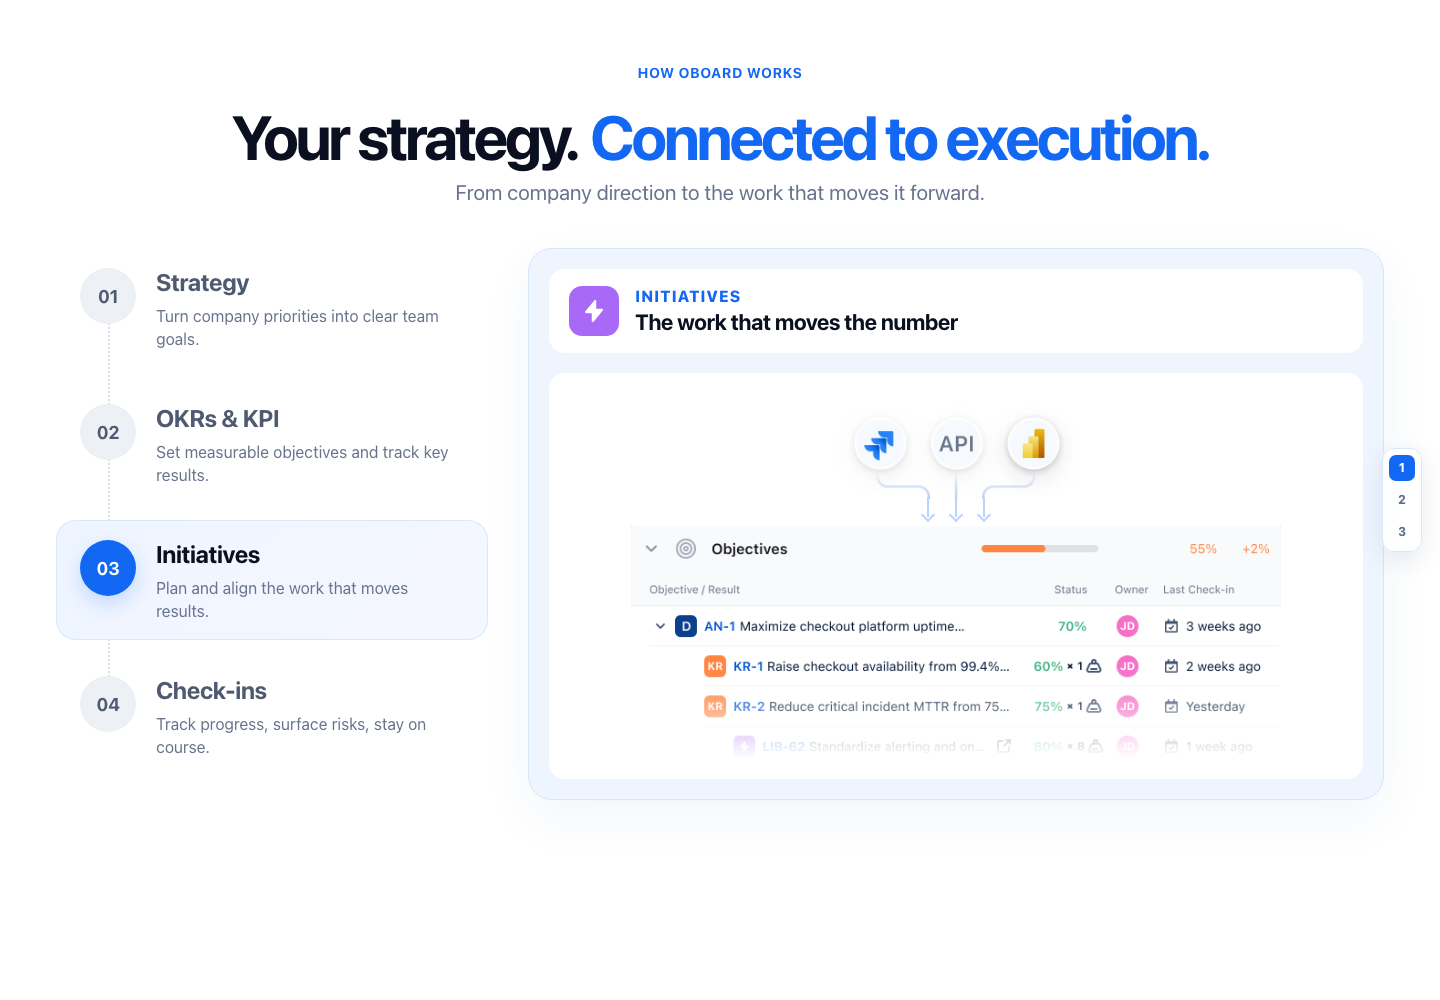
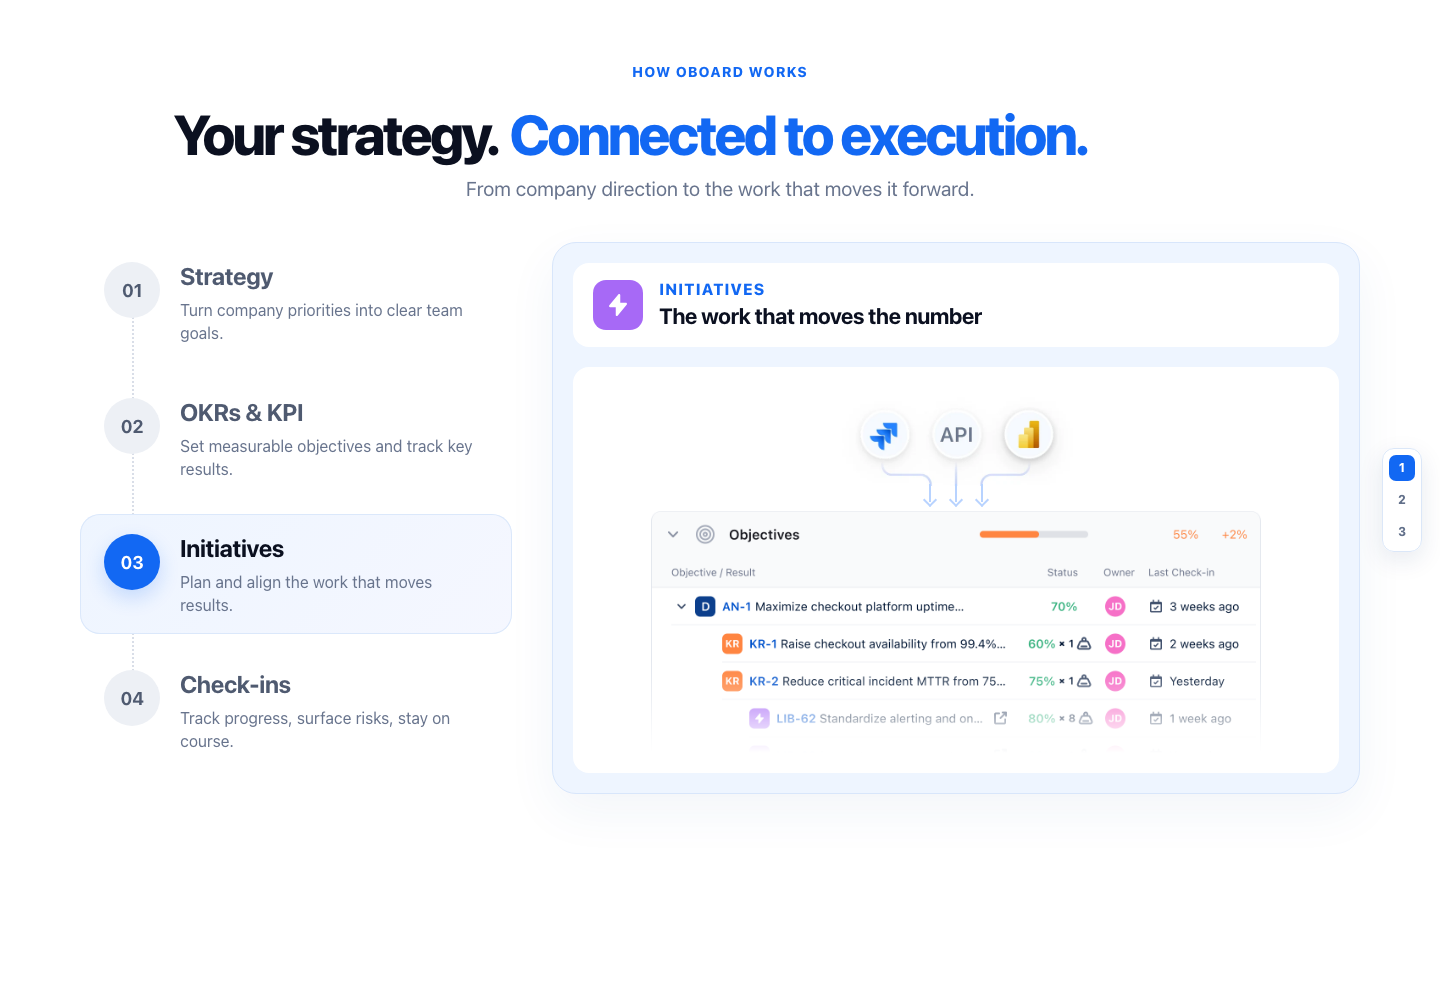
Refresh Platform initiative visuals

diff --git a/viktor-homepage-v2/platform-4-states.html b/viktor-homepage-v2/platform-4-states.html
@@ -6,8 +6,8 @@
 <style>
 :root{--ink:#0b1020;--muted:#68748d;--blue:#1268f3;--violet:#8659ef;--line:#dfe7f2;--panel:#f2f6ff;--good:#0aa66f;--risk:#ef741f}
 *{box-sizing:border-box}body{margin:0;background:#fff;color:var(--ink);font-family:Inter,-apple-system,BlinkMacSystemFont,"Segoe UI",sans-serif;-webkit-font-smoothing:antialiased}
-button{font:inherit}.page{max-width:1500px;margin:auto;padding:64px 56px 76px}.eyebrow{text-align:center;color:var(--blue);font-size:14px;font-weight:800;line-height:1.2;letter-spacing:.08em;text-transform:uppercase}
-h1{text-align:center;margin:20px 0 12px;font-size:56px;font-weight:800;line-height:1.04;letter-spacing:-.052em}.accent{color:var(--blue);margin-left:.12em}.lede{text-align:center;color:var(--muted);font-size:20px;line-height:1.35;margin:0}
+button{font:inherit}.page{max-width:1392px;margin:auto;padding:64px 56px 76px}.eyebrow{text-align:center;color:var(--blue);font-size:14px;font-weight:800;line-height:1.2;letter-spacing:.08em;text-transform:uppercase}
+h1{max-width:1100px;text-align:center;margin:20px auto 12px;font-size:56px;font-weight:800;line-height:1.04;letter-spacing:-.052em}.accent{color:var(--blue);margin-left:.12em}.lede{text-align:center;color:var(--muted);font-size:20px;line-height:1.35;margin:0}
 .story{display:grid;grid-template-columns:430px minmax(0,1fr);gap:38px;align-items:start;margin-top:40px}.rail{display:grid;grid-template-rows:repeat(4,118px);gap:12px;position:relative;align-self:start}.rail:before{content:"";position:absolute;left:51px;top:48px;bottom:70px;border-left:2px dotted #d9dee8}.tab{position:relative;z-index:1;height:118px;border:0;background:transparent;text-align:left;border-radius:18px;padding:20px 24px;display:grid;grid-template-columns:56px 1fr;gap:18px;align-items:start;cursor:pointer;color:#4f5a70;transition:background .18s,box-shadow .18s,color .18s}
 .tab:hover{background:#f7f9fd}.tab[aria-selected="true"]{background:linear-gradient(135deg,#eef5ff,#f5f7ff);box-shadow:inset 0 0 0 1px #dbe8fb}.num{width:56px;height:56px;border-radius:50%;display:grid;place-items:center;background:#edf0f5;font-size:18px;font-weight:700}.tab[aria-selected="true"] .num{background:var(--blue);color:#fff;box-shadow:0 8px 20px #1268f333}.tab b{display:block;font-size:24px;line-height:1.2;color:inherit;letter-spacing:-.018em}.tab[aria-selected="true"] b{color:var(--ink)}.tab span:last-child span{display:block;margin-top:8px;font-size:16px;line-height:1.45;color:var(--muted)}
 .stage{position:relative;height:802px;background:#eef5ff;padding:22px;border:1px solid #d8e6fb;border-radius:24px;box-shadow:0 18px 50px rgba(42,87,156,.06);overflow:hidden}.stage:after{content:"";pointer-events:none;position:absolute;z-index:5;left:1px;right:1px;bottom:1px;height:110px;border-radius:0 0 23px 23px;background:linear-gradient(180deg,rgba(238,245,255,0),#eef5ff 86%)}.scene{display:none;animation:in .25s ease}.scene.active{display:block}.scene[data-scene="strategy"],.shot-scene{height:auto;background:transparent;border:0;border-radius:0;padding:0}.scene> *:not(.figma-state):not(.caption){display:none}.figma-state{display:block;width:100%;height:auto}.state-shell,.figma-stack{display:grid;gap:16px}.state-visual,.figma-stack>img{display:block;width:100%;height:auto}.state-head{display:flex;align-items:center;gap:16px;padding:17px 19px;background:#fff;border-radius:16px;box-shadow:0 8px 24px rgba(38,77,140,.06)}.state-icon{width:50px;height:50px;border-radius:13px;background:#e6f0ff;display:grid;place-items:center;flex:none}.state-icon img{width:25px;height:25px;filter:invert(32%) sepia(95%) saturate(2535%) hue-rotate(208deg) brightness(97%) contrast(96%)}.state-icon.initiative{background:#a769f6}.state-icon.initiative img{width:18px;height:22px;filter:brightness(0) invert(1)}.state-copy small{display:block;color:var(--blue);font-size:11px;font-weight:800;letter-spacing:.07em;text-transform:uppercase}.state-copy strong{display:block;margin-top:5px;color:var(--ink);font-size:20px;line-height:1.18;letter-spacing:-.02em}.product-shot{display:none}@keyframes in{from{opacity:0;transform:translateY(7px)}to{opacity:1;transform:none}}
@@ -43,7 +43,7 @@ h1{text-align:center;margin:20px 0 12px;font-size:56px;font-weight:800;line-heig
 .objectives-frame{position:relative;min-height:0;overflow:hidden;display:grid;place-items:start center;background:transparent}
 .objectives-frame:after{display:none}
 .objectives-card-shell{width:84%;height:100%;overflow:hidden;border:0;border-radius:0;background:transparent;-webkit-mask-image:linear-gradient(to bottom,#000 0,#000 calc(100% - 96px),rgba(0,0,0,.94) calc(100% - 80px),rgba(0,0,0,.68) calc(100% - 52px),rgba(0,0,0,.22) calc(100% - 20px),transparent 100%);mask-image:linear-gradient(to bottom,#000 0,#000 calc(100% - 96px),rgba(0,0,0,.94) calc(100% - 80px),rgba(0,0,0,.68) calc(100% - 52px),rgba(0,0,0,.22) calc(100% - 20px),transparent 100%)}
-.objectives-frame .objectives-window{display:block;width:108.8%;max-width:none;height:auto;margin:-3.55% 0 0 -4.4%}
+.objectives-frame .objectives-window{display:block;width:100%;max-width:none;height:auto;margin:0}
 .checkin-window{position:relative;height:390px;overflow:hidden;border-radius:14px;background:transparent;padding:0}
 .checkin-window:after{content:"";position:absolute;z-index:2;left:0;right:0;bottom:0;height:96px;pointer-events:none;background:linear-gradient(180deg,rgba(245,247,250,0) 0%,rgba(245,247,250,.76) 56%,#f5f7fa 82%)}
 .checkin-card{min-height:480px;overflow:hidden;border:1px solid #e3e8ef;border-radius:14px;background:#f5f7fa;color:#10213d}
@@ -120,7 +120,7 @@ h1{margin:24px 0 12px}
       <p class="caption">A <b>55% objective grade and a 12,500 MAU reading</b> get read together—not in separate tools.</p>
     </div>
     <div class="scene shot-scene" data-scene="initiatives">
-      <div class="figma-state state-shell"><div class="state-head"><span class="state-icon initiative"><img src="figma-product/icons/initiative.svg" alt=""></span><span class="state-copy"><small>Initiatives</small><strong>The work that moves the number</strong></span></div><div class="initiative-composite"><div class="integration-flow"><span class="flow-discs" aria-hidden="true"><i class="flow-disc"></i><i class="flow-disc"></i><i class="flow-disc"></i></span><img src="platform-shots/initiative.webp" alt="Jira, API and Power BI feeding Oboard"><span class="flow-cleaner" aria-hidden="true"><i class="flow-tip"></i><i class="flow-tip"></i><i class="flow-tip"></i></span></div><div class="objectives-frame"><div class="objectives-card-shell"><img class="objectives-window" src="figma-product/objectives-table@2x.png" alt="Figma Objectives table with a gray header and linked initiatives"></div></div></div></div>
+      <div class="figma-state state-shell"><div class="state-head"><span class="state-icon initiative"><img src="figma-product/icons/initiative.svg" alt=""></span><span class="state-copy"><small>Initiatives</small><strong>The work that moves the number</strong></span></div><div class="initiative-composite"><div class="integration-flow"><span class="flow-discs" aria-hidden="true"><i class="flow-disc"></i><i class="flow-disc"></i><i class="flow-disc"></i></span><img src="platform-shots/initiative.webp" alt="Jira, API and Power BI feeding Oboard"><span class="flow-cleaner" aria-hidden="true"><i class="flow-tip"></i><i class="flow-tip"></i><i class="flow-tip"></i></span></div><div class="objectives-frame"><div class="objectives-card-shell"><img class="objectives-window" src="figma-product/objectives-card-clean@2x.png" alt="Figma Objectives table with a gray header and linked initiatives"></div></div></div></div>
       <img class="product-shot" src="platform-shots/initiative.webp" alt="Oboard initiatives view from the supplied prototype">
       <div class="hero-card"><div class="ico">⚡</div><div><div class="kicker">Initiatives</div><h2>Connect delivery work to the result it moves</h2></div></div><div class="connect"></div>
       <div class="card"><div class="section-title"><span>KR · Reduce incident MTTR by 75%</span><span>61%</span></div><div class="source-row"><span class="source">Jira</span><span class="source">Azure DevOps</span><span class="source">Power BI</span><span class="source">API</span></div><div class="row"><span>⚡</span><span>Standardize alerting across services</span><span class="weight">40% weight</span><span class="badge good">80%</span></div><div class="row"><span>⚡</span><span>Automate incident triage</span><span class="weight">35% weight</span><span class="badge good">64%</span></div><div class="row"><span>⚡</span><span>Run reliability game days</span><span class="weight">25% weight</span><span class="badge risk">20%</span></div></div>

diff --git a/viktor-homepage-v2/strategic-context.html b/viktor-homepage-v2/strategic-context.html
@@ -7,11 +7,11 @@
 <style>
 :root{--ink:#09112a;--muted:#68789a;--blue:#1268f3;--line:#cfe0f8;--soft:#f6faff;--u:8px}
 *{box-sizing:border-box}body{margin:0;background:#fff;color:var(--ink);font-family:Inter,-apple-system,BlinkMacSystemFont,"Segoe UI",sans-serif;-webkit-font-smoothing:antialiased}
-.page{width:min(1392px,100%);margin:auto;padding:64px 56px 72px}.eyebrow{margin:0;text-align:center;color:var(--blue);font-size:14px;font-weight:800;line-height:1.2;letter-spacing:.08em;text-transform:uppercase}.title{margin:20px 0 12px;text-align:center;font-size:56px;font-weight:800;line-height:1.04;letter-spacing:-.052em}.title span{color:var(--blue)}.lede{margin:0;text-align:center;color:var(--muted);font-size:20px;line-height:1.35;letter-spacing:-.02em}
-.prompt{height:80px;display:flex;align-items:center;gap:16px;margin-top:40px;padding:16px 24px;border:1px solid var(--line);border-radius:16px;font-size:22px;font-weight:650;letter-spacing:-.025em}.spark{display:grid;place-items:center;width:48px;height:48px;flex:none;border-radius:12px;background:#e8f2ff;color:var(--blue);font-size:30px}
-.stage{position:relative;margin-top:32px;min-height:488px;padding:32px;border:1px solid var(--line);border-radius:24px;background:#fff;overflow:hidden}.labels{position:relative;z-index:2;display:grid;grid-template-columns:46% 1fr;margin:0 0 24px;color:var(--muted);font-size:14px;line-height:1.2;font-weight:800;letter-spacing:.12em;text-transform:uppercase}.labels span:last-child{padding-left:24px}
-.layout{position:relative;z-index:2;display:grid;grid-template-columns:34% 18% 48%;align-items:start}.signals{display:grid;gap:16px}.signal{min-height:88px;display:flex;align-items:center;gap:16px;padding:16px;border-radius:16px;background:var(--soft);font-size:20px;font-weight:620;line-height:1.25;letter-spacing:-.025em}.iconbox{width:48px;height:48px;display:grid;place-items:center;flex:none;border-radius:12px;background:#e7f1ff;color:var(--blue)}.iconbox img,.iconbox svg{width:26px;height:26px}.iconbox img{filter:invert(33%) sepia(88%) saturate(2896%) hue-rotate(208deg) brightness(98%) contrast(94%)}
-.flow{position:absolute;z-index:1;left:calc(34% - 5px);top:80px;width:20%;height:280px;pointer-events:none;overflow:visible}.flow path{fill:none;stroke:#b7d4ff;stroke-width:1.65;stroke-linecap:round}.flow circle{fill:var(--blue)}
+.page{width:100%;max-width:1392px;margin:auto;padding:64px 56px 72px}.eyebrow{margin:0;text-align:center;color:var(--blue);font-size:14px;font-weight:800;line-height:1.2;letter-spacing:.08em;text-transform:uppercase}.title{max-width:1100px;margin:20px auto 12px;text-align:center;font-size:56px;font-weight:800;line-height:1.04;letter-spacing:-.052em}.title span{color:var(--blue)}.lede{margin:0;text-align:center;color:var(--muted);font-size:20px;line-height:1.35;letter-spacing:-.02em}
+.prompt{display:flex;align-items:center;gap:24px;min-height:112px;margin-top:40px;padding:24px;border:1px solid #d8e5fb;border-radius:24px;background:#f4f8ff;font-size:24px;font-weight:700;line-height:1.25;letter-spacing:-.03em}.spark{display:grid;place-items:center;width:64px;height:64px;flex:none;border-radius:50%;background:var(--blue);color:#fff;font-size:32px;box-shadow:0 10px 20px rgba(18,104,243,.16)}
+.stage{position:relative;margin-top:32px;min-height:488px;padding:32px;border:1px solid var(--line);border-radius:24px;background:#fff;overflow:hidden}.labels{position:relative;z-index:2;display:grid;grid-template-columns:34% 22% 44%;margin:0 0 24px;color:var(--muted);font-size:14px;line-height:1.2;font-weight:800;letter-spacing:.12em;text-transform:uppercase}.labels span:last-child{grid-column:3;padding-left:0}
+.layout{position:relative;z-index:2;display:grid;grid-template-columns:34% 22% 44%;align-items:start}.signals{display:grid;gap:16px}.signal{min-height:88px;display:flex;align-items:center;gap:16px;padding:16px;border-radius:16px;background:var(--soft);font-size:20px;font-weight:620;line-height:1.25;letter-spacing:-.025em}.iconbox{width:48px;height:48px;display:grid;place-items:center;flex:none;border-radius:12px;background:#e7f1ff;color:var(--blue)}.iconbox img,.iconbox svg{width:26px;height:26px}.iconbox img{filter:invert(33%) sepia(88%) saturate(2896%) hue-rotate(208deg) brightness(98%) contrast(94%)}
+.flow{position:absolute;z-index:1;left:calc(34% - 5px);top:80px;width:22%;height:280px;pointer-events:none;overflow:visible}.flow path{fill:none;stroke:#b7d4ff;stroke-width:1.65;stroke-linecap:round}.flow .handoff{stroke:var(--blue);stroke-width:1.85}.flow circle{fill:var(--blue)}
 .decision{grid-column:3;min-width:0}.choice{min-height:168px;display:flex;align-items:center;gap:24px;padding:16px 24px 16px 16px;border-radius:16px;background:linear-gradient(110deg,#f0f7ff,#f8fbff)}.rank{width:112px;height:112px;display:grid;place-items:center;flex:none;border-radius:12px;background:var(--blue);color:#fff;font-size:44px;font-weight:800;letter-spacing:-.055em;box-shadow:0 8px 20px rgba(18,104,243,.18)}.choice h2{margin:0 0 8px;font-size:clamp(26px,2.4vw,34px);line-height:1.05;letter-spacing:-.045em}.choice p{margin:0;max-width:540px;color:#6d7fa3;font-size:20px;line-height:1.35}.provenance{margin-top:32px}.provenance h3{margin:0 0 12px;color:var(--muted);font-size:14px;line-height:1.2;font-weight:800;letter-spacing:.12em;text-transform:uppercase}.provenance p{margin:4px 0;color:var(--muted);font-size:20px;line-height:1.35;letter-spacing:-.02em}.provenance b{color:var(--blue)}.principle{margin:40px 0 0;text-align:center;color:var(--muted);font-size:19px}.principle b{color:#294783}
 @media(max-width:850px){.page{padding:40px 20px}.title{font-size:42px}.lede{font-size:18px}.stage{padding:24px 16px}.labels{grid-template-columns:1fr}.labels span:last-child{display:none}.layout{grid-template-columns:1fr}.flow{display:none}.decision{grid-column:auto;margin-top:24px}.signal{min-height:72px;font-size:16px}.choice{gap:16px}.rank{width:80px;height:80px;font-size:32px}.choice h2{font-size:23px}.choice p,.provenance p{font-size:16px}}
 .page-switcher{position:fixed;z-index:20;right:18px;top:50%;display:grid;gap:6px;transform:translateY(-50%);padding:6px;border:1px solid #dbe7f8;border-radius:12px;background:rgba(255,255,255,.84);box-shadow:0 8px 24px rgba(20,51,97,.10);backdrop-filter:blur(8px)}.page-switcher a{display:grid;place-items:center;width:26px;height:26px;border-radius:7px;color:#62708a;font-size:12px;font-weight:800;text-decoration:none}.page-switcher a:hover{background:#eaf2ff;color:#1268f3}.page-switcher a[aria-current="page"]{background:#1268f3;color:#fff}
@@ -25,7 +25,7 @@
   <div class="prompt"><span class="spark" aria-hidden="true">✦</span><span>Prioritize next quarter’s backlog.</span></div>
   <section class="stage" aria-label="Strategic context informed priority decision">
     <div class="labels"><span>What the agent saw</span><span>The decision</span></div>
-    <svg class="flow" viewBox="0 0 300 280" preserveAspectRatio="none" aria-hidden="true"><path d="M0 42 C104 42,116 140,269 140"/><path d="M0 140 C118 140,137 140,269 140"/><path d="M0 238 C104 238,116 140,269 140"/><circle cx="273" cy="140" r="5"/></svg>
+    <svg class="flow" viewBox="0 0 300 280" preserveAspectRatio="none" aria-hidden="true"><defs><marker id="decision-arrow" viewBox="0 0 8 8" refX="6.5" refY="4" markerWidth="5" markerHeight="5" orient="auto"><path d="M1 1 7 4 1 7" fill="none" stroke="#1268f3" stroke-width="1.5" stroke-linecap="round" stroke-linejoin="round"/></marker></defs><path d="M0 42 C100 42,112 140,260 140"/><path d="M0 140 C114 140,132 140,260 140"/><path d="M0 238 C100 238,112 140,260 140"/><circle cx="264" cy="140" r="4"/><path class="handoff" d="M268 140 H290" marker-end="url(#decision-arrow)"/></svg>
     <div class="layout">
       <div class="signals">
         <div class="signal"><span class="iconbox"><img src="../../published-prototype/objectives-assets/3320-25894-imgTarget.svg" alt=""></span><span>Enterprise expansion</span></div>

diff --git a/viktor-homepage-v2/agents-timeline.html b/viktor-homepage-v2/agents-timeline.html
@@ -7,7 +7,7 @@
 <style>
 :root{--ink:#090e20;--navy:#142246;--muted:#6b7791;--blue:#1268f3;--blue-2:#6c7cff;--violet:#8438e8;--line:#dbe4f1;--soft:#f2f6ff;--soft-2:#eaf2ff;--good:#0b9f6b;--risk:#ec721f;--shadow:0 18px 44px rgba(35,77,142,.08)}
 *,*::before,*::after{box-sizing:border-box}html{scrollbar-gutter:stable}body{margin:0;background:#fff;color:var(--ink);font-family:Inter,-apple-system,BlinkMacSystemFont,"Segoe UI",sans-serif;-webkit-font-smoothing:antialiased}button{font:inherit}
-.page{width:100%;max-width:1360px;margin:auto;padding:64px 56px 56px}.brand{text-align:center;color:var(--blue);font-size:14px;font-weight:800;line-height:1.2;letter-spacing:.08em;text-transform:uppercase}.title{max-width:900px;text-align:center;margin:20px auto 12px;font-size:56px;font-weight:800;line-height:1.04;letter-spacing:-.052em}.title span{color:var(--blue)}.lede{text-align:center;margin:0 auto;color:var(--muted);font-size:20px;line-height:1.35}
+.page{width:100%;max-width:1392px;margin:auto;padding:64px 56px 56px}.brand{text-align:center;color:var(--blue);font-size:14px;font-weight:800;line-height:1.2;letter-spacing:.08em;text-transform:uppercase}.title{max-width:1100px;text-align:center;margin:20px auto 12px;font-size:56px;font-weight:800;line-height:1.04;letter-spacing:-.052em}.title span{color:var(--blue)}.lede{text-align:center;margin:0 auto;color:var(--muted);font-size:20px;line-height:1.35}
 .cycle{position:relative;margin-top:40px;--connector-x:50%}.phase-track{position:relative;display:grid;grid-template-columns:repeat(6,minmax(0,1fr));gap:14px;height:54px}.phase-track:before{content:"";position:absolute;left:var(--line-start,8.333%);right:calc(100% - var(--line-end,91.667%));top:38px;height:2px;background:#86b6ff}.phase{position:relative;display:flex;justify-content:center;align-items:flex-start;gap:8px;font-size:16px;font-weight:700;letter-spacing:-.02em;white-space:nowrap}.phase:nth-child(1){grid-column:1}.phase:nth-child(2){grid-column:2/span 2}.phase:nth-child(3){grid-column:4/span 2}.phase:nth-child(4){grid-column:6}.phase-num{font-weight:780}.phase-dot{position:absolute;left:50%;top:29px;width:18px;height:18px;border:2px solid var(--blue);background:white;border-radius:50%;transform:translateX(-50%);z-index:2}.phase:first-child .phase-dot{background:var(--blue);box-shadow:0 0 0 4px #e7f0ff}
 .agents{display:grid;grid-template-columns:repeat(6,minmax(0,1fr));gap:14px;position:relative}.agent{height:152px;border:1px solid var(--line);border-radius:12px;background:#fff;padding:14px;text-align:left;cursor:pointer;color:var(--ink);box-shadow:0 4px 12px rgba(20,48,94,.055),0 1px 2px rgba(20,48,94,.04);transition:transform .18s,box-shadow .18s,background .18s,border-color .18s;position:relative}.agent:hover{transform:translateY(-3px);background:#fafcff;box-shadow:0 13px 26px rgba(20,48,94,.11),0 3px 7px rgba(20,48,94,.05)}.agent[aria-selected=true]{border-color:#6a9df8;background:#f5f8ff;box-shadow:0 12px 24px rgba(18,104,243,.14),0 3px 7px rgba(20,48,94,.06)}.agent-icon{width:38px;height:38px;border-radius:10px;background:#eaf2ff;display:grid;place-items:center;margin-bottom:9px}.agent-icon img{width:23px;height:23px;filter:invert(36%) sepia(93%) saturate(3913%) hue-rotate(208deg) brightness(100%) contrast(91%)}.agent h2{margin:0 0 5px;font-size:17px;line-height:1.12;letter-spacing:-.02em}.agent p{margin:0;color:var(--muted);font-size:13px;line-height:1.32}
 .connector{height:46px;position:relative}.connector:before{content:"";position:absolute;top:0;bottom:14px;width:2px;background:var(--blue);left:var(--connector-x);transform:translateX(-50%);transition:left .24s cubic-bezier(.2,.8,.2,1)}.connector:after{content:"";position:absolute;bottom:4px;width:16px;height:16px;border-radius:50%;background:var(--blue);border:3px solid white;box-shadow:0 0 0 2px #bdd5ff;left:var(--connector-x);transform:translateX(-50%);transition:left .24s cubic-bezier(.2,.8,.2,1)}
